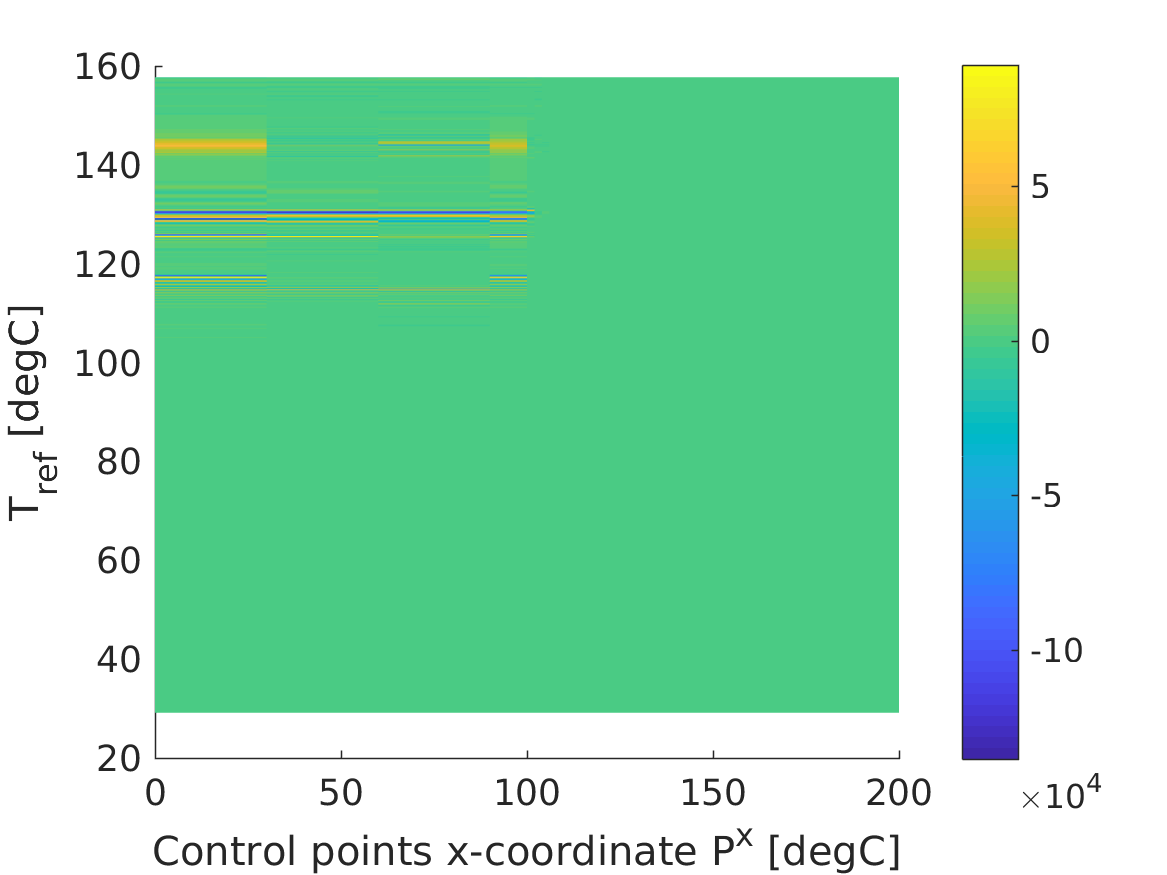
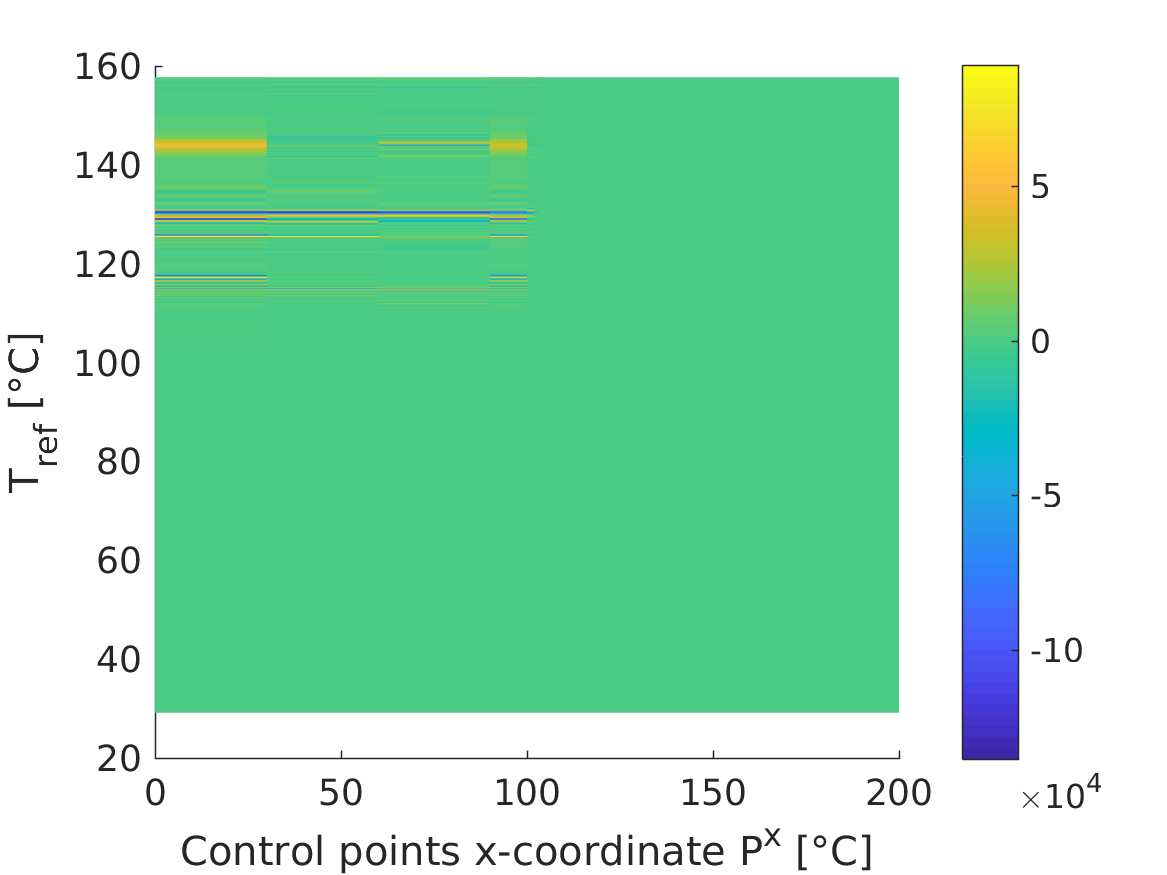
updated [degC] to \circle C

Changed region(s): [[0.1234, 0.9566, 0.7712, 1.0], [0.0, 0.3394, 0.0617, 0.5863]]

diff --git a/code/testing2.m b/code/testing2.m
@@ -121,7 +121,7 @@ save_root_dir = '/home/argo/masterarbeit/thesis/images/';
 
 set(fig1, 'units', 'normalized', 'outerposition', [0 0 0.66 1]);
 set(ax1,'FontSize',25);
-xlabel(ax1, 'T_{ref} [degC]');
+xlabel(ax1, 'T_{ref} [°C]');
 ylabel(ax1, '\eta^{\Phi}[mW]');
 set(ax1, 'xlim', [30 160]);
 legend(ax1, 'show', 'location', 'northwest');
@@ -133,7 +133,7 @@ close(fig1);
 
 set(fig2, 'units', 'normalized', 'outerposition', [0 0 0.66 1]);
 set(ax2,'FontSize',25);
-xlabel(ax2, 'T [degC]');
+xlabel(ax2, 'T [°C]');
 ylabel(ax2, 'c_p [mJ/(mg*K)]');
 set(ax2, 'xlim', [30 160]);
 legend(ax2, 'show', 'location', 'northwest');
@@ -502,14 +502,16 @@ c_p = c_p_fs(T, p_fs_scaled);
 fig1 = figure(5);
 ax1 = gca; cla;
 
-plot(ax1, T,c_p, 'linewidth', 1.2);
+plot(ax1, T,c_p, 'linewidth', 1.2, 'DisplayName', 'c_p(T)');
 
 set(ax1,'FontSize', 12);
-xlabel(ax1, 'T [degC]');
+xlim(ax1, [30, 160])
+xlabel(ax1, 'T [°C]');
 ylabel(ax1, 'c_p [mJ/(mg*K)]')
+legend(ax1, 'show', 'location', 'northwest')
 box off
 
-print(fig, '/home/argo/masterarbeit/thesis/images/fraser_suzuki_example', '-dpng', '-r200');
+print(fig1, '/home/argo/masterarbeit/thesis/images/fraser_suzuki_example', '-dpng', '-r200');
 close();
 
 
@@ -525,8 +527,8 @@ fig = open([root_dir, 'jac_output.fig']);
 colormap('parula')
 set(gca,'FontSize',13);
 
-xlabel('Control points x-coordinate P^x [degC]');
-ylabel('T_{ref} [degC]')
+xlabel('Control points x-coordinate P^x [°C]');
+ylabel('T_{ref} [°C]')
 
 print(fig, '/home/argo/masterarbeit/thesis/images/NURBS_jac2', '-dpng', '-r200');
 
@@ -549,6 +551,7 @@ children(2).LineWidth = 1.3;
 
 xlim(gca, [30, 160]);
 ylabel('c_p [mJ/(mg*K)]')
+xlabel('T [°C]')
 box off  % entfernt den Rahmen um die figure
 
 print(fig, '/home/argo/masterarbeit/thesis/images/NURBS_c_p(T)', '-dpng', '-r200');
@@ -566,6 +569,7 @@ children(2).LineStyle = '--';
 set(gca,'FontSize',13);
 
 xlim(gca, [30, 160]);
+xlabel('T_{ref} [°C]')
 ylabel('\Phi_q^{PCM,in} [mW]')
 
 legend('off')
@@ -596,6 +600,7 @@ print(fig, '/home/argo/masterarbeit/thesis/images/smearing_effect_simulation_hea
 
 % zoom for comparison with measured heat flux values
 xlim([80, 160]);
+xlabel('T_{ref} [°C]')
 
 print(fig, '/home/argo/masterarbeit/thesis/images/smearing_effect_simulation_heat_fluxes_zoom', '-dpng', '-r200');
 close();
@@ -611,6 +616,7 @@ children = get(gca, 'Children');
 children(1).LineWidth = 2.2;
 
 xlim([30, 160]);
+xlabel('T [°C]')
 ylabel('c_p [mJ/(mg*K)]')
 
 print(fig, '/home/argo/masterarbeit/thesis/images/smearing_effect_simulation_c_p', '-dpng', '-r200');
@@ -658,7 +664,7 @@ for i=1:length(T_test_dirs)
 end
 
 legend(ax1, 'show', 'location', 'northwest', 'Orientation', 'horizontal');
-xlabel(ax1, 'T_{ref} [degC]')
+xlabel(ax1, 'T_{ref} [°C]')
 ylabel(ax1, 'Relative error')
 set(ax1,'FontSize',24);
 xlim(ax1, [T_test_data.T_ref_dsc(1), T_test_data.T_ref_dsc(end)]);
@@ -726,7 +732,7 @@ for i=1:length(T_test_dirs)
 end
 
 legend(ax1, 'show', 'location', 'north', 'orientation', 'horizontal');
-xlabel(ax1, 'T_{ref} [degC]')
+xlabel(ax1, 'T_{ref} [°C]')
 ylabel(ax1, 'Relative error')
 xlim(ax1, [T_test_data.T_ref_dsc(1), T_test_data.T_ref_dsc(end)]);
 ylim(ax1, [1e-11, 1e-4]);
@@ -793,7 +799,7 @@ for i=1:length(T_test_dirs)
 end
 
 legend(ax1, 'show', 'location', 'north', 'orientation', 'horizontal');
-xlabel(ax1, 'T_{ref} [degC]')
+xlabel(ax1, 'T_{ref} [°C]')
 ylabel(ax1, 'Relative error')
 xlim(ax1, [T_test_data.T_ref_dsc(1), T_test_data.T_ref_dsc(end)]);
 ylim(ax1, [1e-11, 1e-4]);
@@ -850,7 +856,7 @@ relErr = abs(1 - T_ref7 ./ T_ref8);
 fig1 = figure(23); clf; ax1 = gca; set(ax1, 'YScale', 'log'); hold on
 
 plot(ax1, T_ref_dsc, relErr, 'Linewidth', 1.2);
-xlabel(ax1, 'T_{ref} [degC]')
+xlabel(ax1, 'T_{ref} [°C]')
 ylabel(ax1, 'Relative error')
 set(ax1,'FontSize',12);
 print(fig1, '/home/argo/masterarbeit/thesis/images/integration_tolerance_relErr', '-dpng', '-r200');
@@ -883,9 +889,9 @@ heat_rate_meas_dev = 100*(heat_rate_meas ./ dsc.Tinfo.Tstep - 1);
 
 fig = figure(50); clf; hold on
 plot(dsc.data(idx_start:idx_end,1), heat_rate_meas, 'color', 'blue', ...
-    'DisplayName', 'Heat rate at reference crucible');
+    'Linewidth', 1.2, 'DisplayName', 'Heat rate at reference crucible');
 plot([dsc.data(idx_start,1), dsc.data(end,1)], mean(heat_rate_meas)*ones(1,2), ...
-    'Color', 'red', 'Linewidth', 1.3, 'Linestyle', '-', 'DisplayName', 'Mean value');
+    'Color', 'red', 'Linewidth', 2.0, 'Linestyle', '-', 'DisplayName', 'Mean value');
 yticks([2.48, 2.485, 2.49, 2.495, 2.5, 2.505, 2.51]);
 yticklabels({'2.48 (-0.8%)', '2.485 (-0.6%)', '2.49 (-0.4%)', '2.495 (-0.2%)', ...
              '2.5 (0%)', '2.505 (+0.2%)', '2.51 (+0.4%)'})
@@ -895,18 +901,21 @@ yticklabels({'2.48 (-0.8%)', '2.485 (-0.6%)', '2.49 (-0.4%)', '2.495 (-0.2%)', .
 % plot(dsc.data(idx_start:idx_end,2), dsc.data(idx_start:idx_end,1))
 
 ylim([2.48 2.511])
-xlabel('T_{ref} [degC]');
+xlim([20, 160]);
+xticks(20:20:160)
+xlabel('T_{ref} [°C]');
 ylabel('Heat rate (deviation) [K/min]')
 legend('show', 'location', 'northwest')
-set(gca,'FontSize',12);
+set(gca,'FontSize',24);
 
+set(fig, 'Units', 'normalized', 'Position', [0.0, 0.0, 0.65, 1.]); 
 
-% print(fig, '/home/argo/masterarbeit/thesis/images/heat_rate_ref_crucible', '-dpng', '-r200');
+print(fig, '/home/argo/masterarbeit/thesis/images/heat_rate_ref_crucible', '-dpng', '-r200');
 
 fprintf('%1.4f +/- %1.4f (%1.4f%%)\n', mean(heat_rate_meas), std(heat_rate_meas), ...
     std(heat_rate_meas) / mean(heat_rate_meas) * 100);
 
-
+close;
 
 %% Berechnung Konfidenzintervalle der geschaetzten Parameter
 
@@ -1197,7 +1206,7 @@ for j=1:length(nameSubDirs)
     
     plot(ax1, T_plot, c_p_plot, 'DisplayName', 'c_p(T)', 'Linewidth', 2.)
     legend(ax1, 'show', 'location', 'northwest');
-    xlabel(ax1, 'T [degC]');
+    xlabel(ax1, 'T [°C]');
     ylabel(ax1, 'c_p [mJ/(mg*K)]');
     set(ax1,'FontSize',30);
     xlim(ax1, [30, 160]);
@@ -1247,7 +1256,7 @@ for j=1:length(nameSubDirs)
          'Linestyle', '--', 'Linewidth', 2.);
     plot(ax2, T_ref_dsc, q_res, 'DisplayName', 'Residuum', 'Linewidth', 2.);
     legend(ax2, 'show', 'location', 'northwest');
-    xlabel(ax2, 'T_{ref} [degC]');
+    xlabel(ax2, 'T_{ref} [°C]');
     ylabel(ax2, '\Phi_q^{pcm,in} [mW]');
     set(ax2,'FontSize',30);
     xlim(ax2, [T_ref_dsc(1), T_ref_dsc(end)]);
@@ -1449,7 +1458,7 @@ plot(ax1, T_domain, c_p_gauss_linear_comb(T_domain, scaled_params), ...
     'DisplayName', 'c_p(T)', 'Linewidth', 1.7, 'color', 'black');
 
 set(gca,'FontSize',20)
-xlabel(ax1, 'T [degC]')
+xlabel(ax1, 'T [°C]')
 ylabel(ax1, 'c_p [mJ/(mg*K)]');
 legend(ax1, 'show', 'location', 'northwest')
 xlim(ax1, [100 140]);
@@ -1457,7 +1466,7 @@ xlim(ax1, [100 140]);
 save_path = [fit_data_path, 'Gaussians_splitted'];
 print(fig1, save_path, '-dpng', '-r200');
     
-
+close;
 
 %% Gauss plot mit allen Gaussen einzeln (beispielbild fuer parametrisierungen)
 
@@ -1498,7 +1507,7 @@ plot(ax1, T_domain, c_p_gauss_linear_comb(T_domain, scaled_params), ...
     'DisplayName', 'c_p(T)', 'Linewidth', 1.3, 'color', 'black');
 
 set(gca,'FontSize',12)
-xlabel(ax1, 'T [degC]')
+xlabel(ax1, 'T [°C]')
 ylabel(ax1, 'c_p [mJ/(mg*K)]');
 legend(ax1, 'show', 'location', 'northwest')
 xlim(ax1, [100 140]);
@@ -1669,7 +1678,7 @@ h_max = plot(ax1, T_max, c_p_fs(T_max, fs_params), 'x', ...
 
 % Baseline
 h_base = plot(ax1, T_domain, m*T_domain + b, '--', 'color', 'm', ...
-    'DisplayName', 'Linear base line', 'Linewidth', 1.5);
+    'DisplayName', 'Linear baseline', 'Linewidth', 1.5);
 
 
 
@@ -1677,7 +1686,7 @@ h_base = plot(ax1, T_domain, m*T_domain + b, '--', 'color', 'm', ...
 
 xticks([T_on, T_infl_1, T_max, T_infl_2, T_off]);
 xticklabels({'T_{on}', 'T_{infl,1}', 'T_{max}', 'T_{infl,2}', 'T_{off}'});
-xlabel('T [degC]')
+xlabel('T [°C]')
 ylabel('c_p [mJ/(mg*K)]')
 %legend('show', 'location', 'northwest');
 legend([h_c_p, h_max, h_infl, h_infl_tangent, h_base], 'location', 'northwest');
@@ -1687,7 +1696,7 @@ set(ax1, 'FontSize',20)
 save_path = '/home/argo/masterarbeit/thesis/images/T_on_T_off_illustration';
 print(fig, save_path, '-dpng', '-r200');
 
-
+close;
 
 %% Berechnung T_on, T_off von mit Formel berechnetem c_p
 
@@ -1952,7 +1961,7 @@ for i=1:length(dsc_list)
         'Linewidth', 2.5);
     
     title(ax1, ['Heat rate: ', num2str(dsc.Tinfo.Tstep), ' K/min']);
-    xlabel(ax1, 'T [degC]')
+    xlabel(ax1, 'T [°C]')
     ylabel(ax1, 'c_p [mJ/(mg*K)]');
     xlim(ax1, [min(T_data), max(T_data)])
     set(ax1, 'FontSize',30)
@@ -2098,7 +2107,7 @@ T_ref_idx = fit_data.measurement.dsc_data.data(index_T_dsc(1):index_T_dsc(2),1);
 T_ref_idx = flipud(T_ref_idx);
 
 fig1 = figure(1);
-ax1 = gca;
+ax1 = gca; cla;
 
 image(1:17, T_ref_idx, dqdp, 'CDataMapping', 'scaled')
 colorbar;
@@ -2109,7 +2118,7 @@ set(gca,'Ydir','Normal')
 colormap('parula')
 set(gca,'FontSize',12);
 
-ylabel('T_{ref} [degC]')
+ylabel('T_{ref} [°C]')
 xlabel('Parameters')
 xticks(1:3:17)
 title('')

diff --git a/code/get_fit_results.m b/code/get_fit_results.m
@@ -50,7 +50,7 @@ for i=1:length(nameSubDirs)
         T_max);
     
     plot(ax1, T_domain, c_p, 'DisplayName', strcat(num2str(fit_data.measurement.dsc_data.Tinfo.Tstep), ' K/min'))
-    xlabel('T [degC]')
+    xlabel('T [°C]')
     ylabel('c_p [mJ/(mg K)]')
     
     % optimization progress plot
